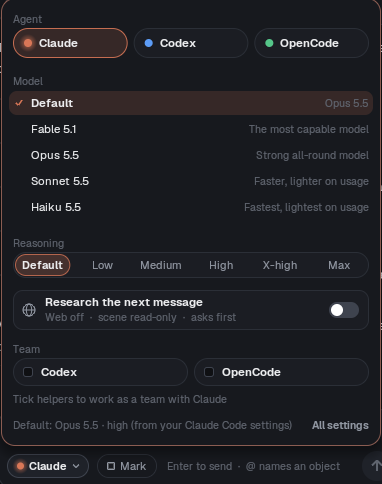
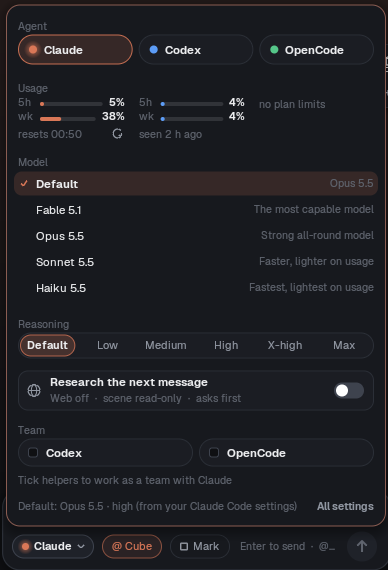
PartyMode 0.40.1 docs

diff --git a/README.md b/README.md
@@ -49,15 +49,18 @@ chat.
 **One shared memory.** Every undo step is named for the agent that made it. The references,
 renders and notes on the Sandbox board are there for all of them.
 
-**You run it from one place.** Each agent's work lands in the same chat, under its own name.
-Approve, redirect or stop the whole team without leaving Blender.
+**You run it from one place.** Each agent's work lands in the same chat, under its own name, and a
+helper's work sits in its own coloured panel. Talk to the lead while the helpers keep building, or
+approve, redirect or stop the whole team, without leaving Blender.
 
 **Direct from anywhere.** Not one for prompting? Talk to a terminal agent like Claude Code instead.
 It joins the same room, pins your screenshots and scribbles to the Sandbox, and turns "the nose
 looks pinched" into a precise note for whichever agent owns the nose.
 
-**Use every plan you pay for.** Claude on your Claude plan, Codex on your ChatGPT plan, and a free
-local model for the simple parts, all on one scene.
+**Use every plan you pay for.** Claude on your Claude plan, Codex on your ChatGPT plan, Grok,
+Copilot or Gemini on theirs, and a free local model for the simple parts, all on one scene. The
+agent menu shows how much of each plan's limits you've used, and the lead keeps a helper that's
+nearly out to small tasks.
 
 <br clear="right">
 
@@ -78,7 +81,7 @@ The agents measure in metres, and mark what's wrong right in your viewport.
 side by side, and keep it only if you like it.
 
 <p align="center">
-  <img src="media/menu.png" width="49%" alt="The agent menu: pick Claude, Codex or OpenCode, the model and how hard it thinks">
+  <img src="media/menu.png" width="49%" alt="The agent menu: pick the agent, see how much of its plan is used, then the model and how hard it thinks">
   <img src="media/checks.png" width="49%" alt="A failed check marked in the viewport: the cube sunk into the floor">
 </p>
 <p align="center">
@@ -115,7 +118,9 @@ workflow names in the add-on's preferences.
 The chat needs one agent, signed in on your computer:
 [Claude Code](https://claude.com/claude-code) (your Claude plan),
 [Codex](https://github.com/openai/codex) (your ChatGPT plan), or
-[OpenCode](https://opencode.ai) (hosted models, or local ones that keep everything on your machine).
+[OpenCode](https://opencode.ai) (hosted models, Meta's among them, or local ones that keep everything
+on your machine). Or switch on Grok Build, GitHub Copilot, Gemini CLI or any other agent that speaks
+the Agent Client Protocol, in the add-on's Agents settings.
 
 Updates arrive in the add-on itself: one click in its preferences.
 
@@ -123,10 +128,13 @@ Updates arrive in the add-on itself: one click in its preferences.
 
 **Chat**
 - **Chat beside your viewport,** or as a bar floating in it.
-- **Claude, Codex or OpenCode,** each with its own model and how hard it thinks.
+- **Claude, Codex or OpenCode,** each with its own model and how hard it thinks. Grok, Copilot,
+  Gemini or your own ACP agent when you switch them on.
+- **Plan usage** in the agent menu: how much of Claude's and Codex's 5-hour and weekly limits is
+  used, and when they reset.
 - **@mention objects** to point at them, or **Mark** a box over any part of the screen.
 - **Suggestions** for what's selected, and a guess at your next message (Tab takes it).
-- **Three looks:** Halo, Signal and Classic.
+- **Three looks:** Halo, Signal and Classic. A new chat greets you with the agent's own logo, animated.
 - **Chats are saved;** pick one up later, even with a different agent.
 
 **Safety**
@@ -165,6 +173,10 @@ Updates arrive in the add-on itself: one click in its preferences.
   agent menu.
 - **The lead plans, hands out tasks and reviews them,** and hears straight away if a helper gets
   stuck.
+- **Talk to the lead while helpers work:** your message goes straight to it, or waits for its reply,
+  and the helpers keep going. A helper that's gone quiet shows how long for.
+- **Each helper's work sits in its own coloured panel,** so a helper's report never reads as the
+  lead's.
 - **A helper keeps its own conversation** from task to task, so a fix doesn't start from scratch.
 - **Claims** keep agents off each other's objects, even ones not built yet.
 - **Notes** between agents, and every edit says who made it.
